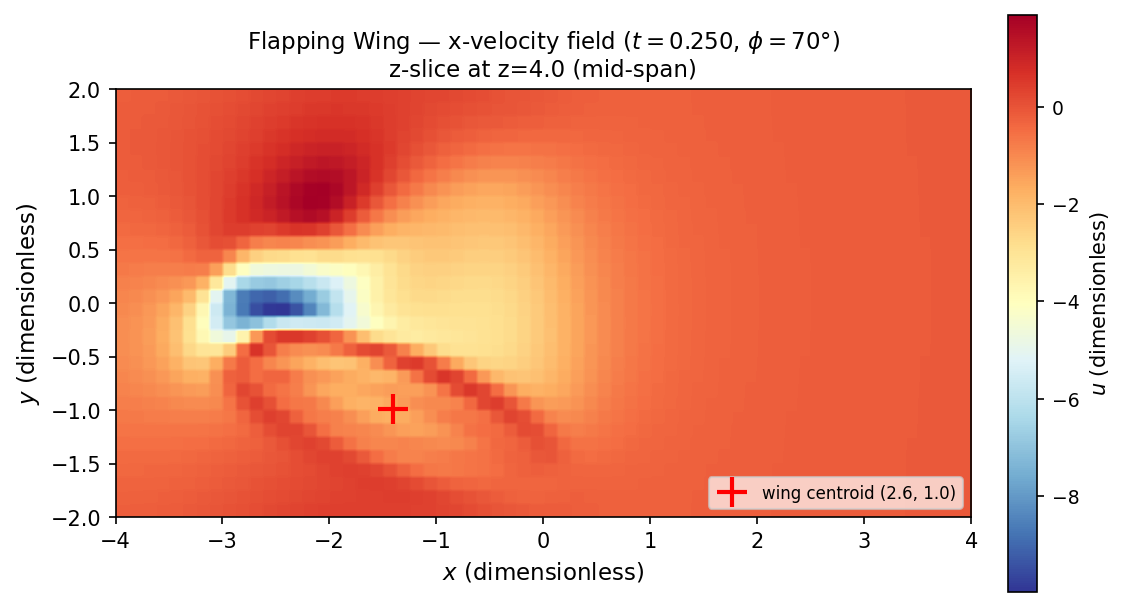
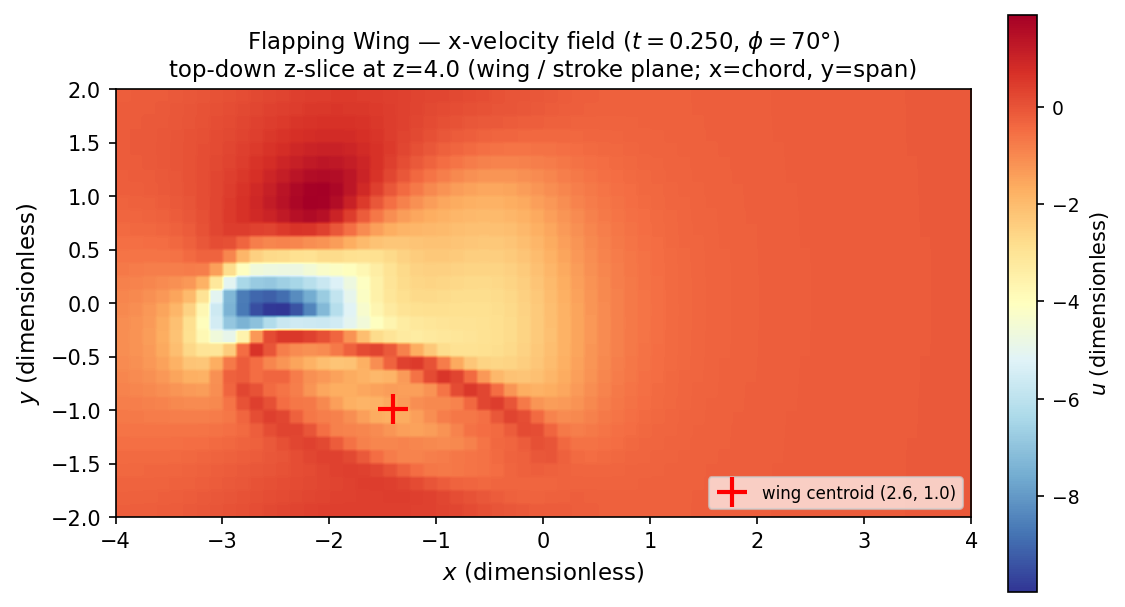
fix(figures): correct stale 'mid-span' label on the velocity slice (z is vertical, not span)
Under the van Veen convention z is the vertical/lift axis, so the z=4 slice is the wing/stroke
plane (top-down), NOT mid-span (mid-span is now y=2). Regenerated fig_velocity.

Changed region(s): [[0.1556, 0.089, 0.8089, 0.1483]]

diff --git a/examples/flapping_wing/generate_all_figures.py b/examples/flapping_wing/generate_all_figures.py
@@ -376,7 +376,7 @@ def plot_velocity_field(figures_dir: Path, plotfile: Path):
     cx = float(ds.domain_center[0])
     cy = float(ds.domain_center[1])
 
-    # Fixed-resolution buffer: full x-y plane at z = domain center (mid-span)
+    # Fixed-resolution buffer: full x-y plane at z = domain center (wing / stroke plane)
     # Upsample 4x for smooth visualization of coarse grid
     frb_nx = nx * 4
     frb_ny = ny * 4
@@ -451,7 +451,8 @@ def plot_velocity_field(figures_dir: Path, plotfile: Path):
     ax.set_ylabel("$y$ (dimensionless)", fontsize=11)
     ax.set_title(
         f"Flapping Wing — {title_note}\n"
-        f"z-slice at z={float(ds.domain_center[2]):.1f} (mid-span)",
+        f"top-down z-slice at z={float(ds.domain_center[2]):.1f} "
+        f"(wing / stroke plane; x=chord, y=span)",
         fontsize=11,
     )
 